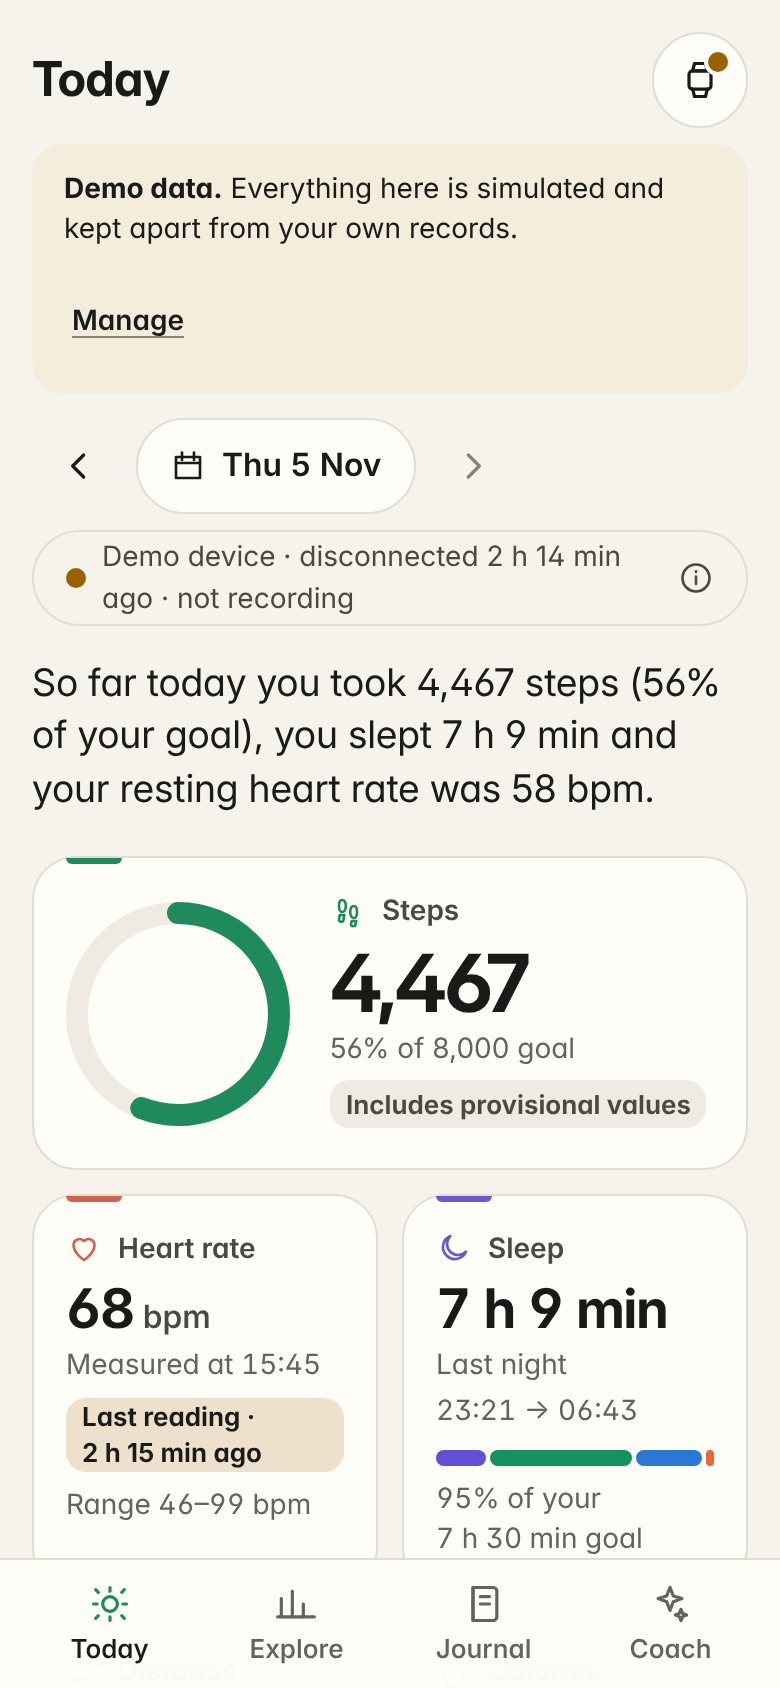
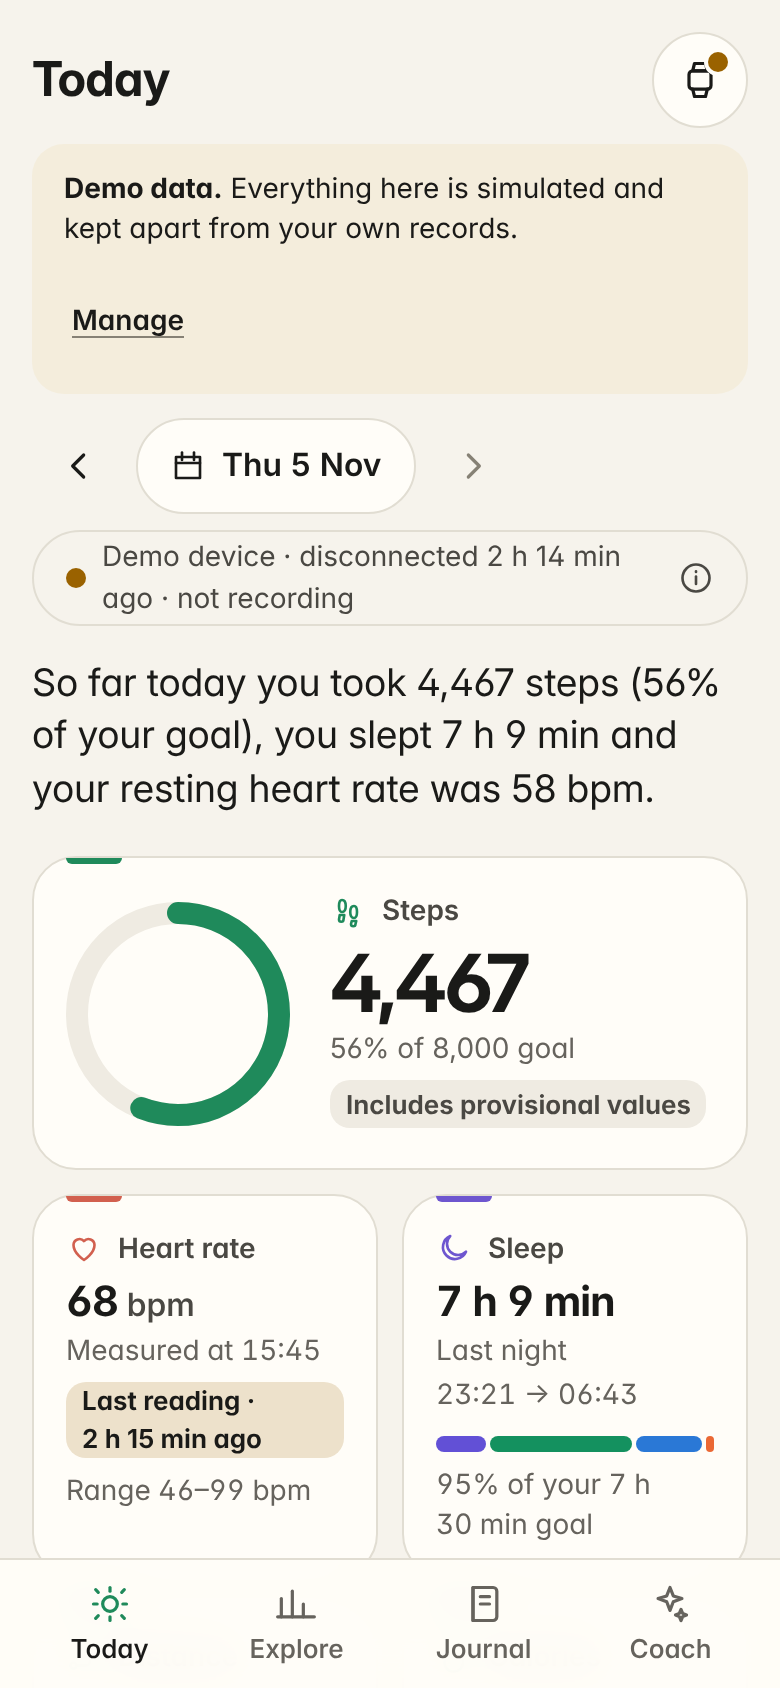
Final mobile and a11y polish from review round four
- Tile values are sized to the tile (container units), so values fit when
  tiles are 2 or 3 per row, including the landscape rail layout.
- Summary stat grid uses a text-relative column minimum and collapses to
  one column at large text; durations may wrap between hours and minutes.
- The main column in the rail layout can shrink (min-width: 0), fixing a
  9 px landscape overflow at 200% text.
- Long headings, paragraphs and code wrap instead of overflowing.
- Out-of-month goal days in the steps calendar meet 4.5:1 contrast.
- README records the review results.

Claude-Session: https://claude.ai/code/session_01VbyZ4WPkwabFdouNp5ib2H

Changed region(s): [[0.5538, 0.7393, 0.9231, 0.9242], [0.0615, 0.7393, 0.4308, 0.8934]]

diff --git a/app/style/app.css b/app/style/app.css
@@ -266,7 +266,8 @@ fieldset { border: 0; padding: 0; margin: var(--s3) 0; min-width: 0; }
 .period-label { font-weight: 650; min-width: 0; flex: 1; text-align: center; overflow-wrap: anywhere; }
 .period-nav { min-width: 0; max-width: 100%; }
 .detail-card { background: var(--surface); border: 1px solid var(--line); border-radius: var(--r-lg); padding: var(--s4); }
-.stat-grid { display: grid; grid-template-columns: repeat(auto-fill, minmax(140px, 1fr)); gap: var(--s3); margin: 0; }
+.stat-grid { display: grid; grid-template-columns: repeat(auto-fill, minmax(min(100%, 9.5em), 1fr)); gap: var(--s3); margin: 0; }
+.stat-grid > div { min-width: 0; }
 .stat-grid div { background: var(--surface); border: 1px solid var(--line); border-radius: var(--r-md); padding: var(--s3) var(--s4); }
 .stat-grid dt { font-size: var(--fs-sm); color: var(--muted); font-weight: 550; }
 .stat-grid dd { margin: 2px 0 0; font-size: var(--fs-lg); font-weight: 680; }
@@ -456,6 +457,7 @@ fieldset { border: 0; padding: 0; margin: var(--s3) 0; min-width: 0; }
 .cal-val { font-size: 11px; font-weight: 550; color: var(--muted); }
 .cal-day.goal-met { background: color-mix(in srgb, var(--activity) 16%, transparent); }
 .cal-day.goal-met .cal-val { color: var(--ink); }
+.cal-day.out.goal-met { color: var(--ink-2); }
 .cal-day.sel .cal-val { color: var(--page); }
 .trend-line { fill: none; stroke: var(--ink-2); stroke-width: 1.5; stroke-linecap: round; stroke-linejoin: round; opacity: .8; }
 .legend-trend { display: inline-flex; align-items: center; gap: var(--s2); }
@@ -520,7 +522,9 @@ fieldset { border: 0; padding: 0; margin: var(--s3) 0; min-width: 0; }
 
 /* ---- Mobile refinements ---------------------------------------------- */
 /* Values never break mid-number; long ones shrink a little on narrow phones. */
-.tile-value { font-size: clamp(1.375rem, 7vw, 2rem); max-width: 100%; }
+.tile:not(.hero) { container-type: inline-size; }
+/* Sized to the tile itself (not the screen), so values fit 2- or 3-up layouts. */
+.tile-value { font-size: clamp(1.125rem, 15cqi, 2rem); max-width: 100%; }
 .tile, .hero-text, .insight, .insight-head h3, .metric-row > * { min-width: 0; }
 /* Large text (Android font scaling, browser zoom): tiles drop to one column
    instead of clipping values. rem tracks the user's text size. */
@@ -589,3 +593,7 @@ body:has(.app) .preboot { display: none; }
 .fav-grid { grid-template-columns: repeat(auto-fit, minmax(min(100%, 8.5rem), 1fr)); }
 @media (min-width: 560px) { .fav-grid { grid-template-columns: repeat(auto-fit, minmax(min(100%, 8.5rem), 1fr)); } }
 .fav-grid > * { min-width: 0; }
+/* Safety net for very large text: long words wrap instead of overflowing. */
+.screen-header h1 { overflow-wrap: break-word; hyphens: auto; min-width: 0; }
+main p, main dd, main li, main code, .stat-grid dd { overflow-wrap: break-word; }
+.app.with-tabs > .main { min-width: 0; }

diff --git a/crates/airspace-core/src/time.rs b/crates/airspace-core/src/time.rs
@@ -200,7 +200,8 @@ pub fn fmt_minutes(min: f64) -> String {
     } else if m % 60 == 0 {
         format!("{}\u{a0}h", m / 60)
     } else {
-        format!("{}\u{a0}h\u{a0}{}\u{a0}min", m / 60, m % 60)
+        // Each number stays with its unit; a long value may wrap between the two parts.
+        format!("{}\u{a0}h {}\u{a0}min", m / 60, m % 60)
     }
 }
 

diff --git a/README.md b/README.md
@@ -69,6 +69,10 @@ No feature pretends to work: unavailable adapters say what is missing.
   * AI request shapes and endpoint binding;
   * SQLite migrations and persistence after reopening;
   * a year of per-minute heart rate (about 525,000 samples), which summarizes in about 130 ms in release.
+* **Independent agent reviews** against the original specification, each running its own browser tests:
+  functional and data correctness 95%, charts 93%, accessibility 92%, mobile UX 87%. Every defect they
+  reported after that was fixed and re-checked with their own scripts; the mobile sweep (55 screens × 5 phone
+  sizes and orientations × text at 100/130/150/200%) finds no overflow, clipping or console errors.
 * **Large text and small screens:** no horizontal overflow on any screen at 150% and 200% text on
   320 px and 412 px phones and in landscape; tiles, controls and pills reflow instead of clipping.
 * **Browser test** (`scripts/e2e-smoke.cjs`, 33 checks) drives the PWA in headless Chromium. It passes, covering:
